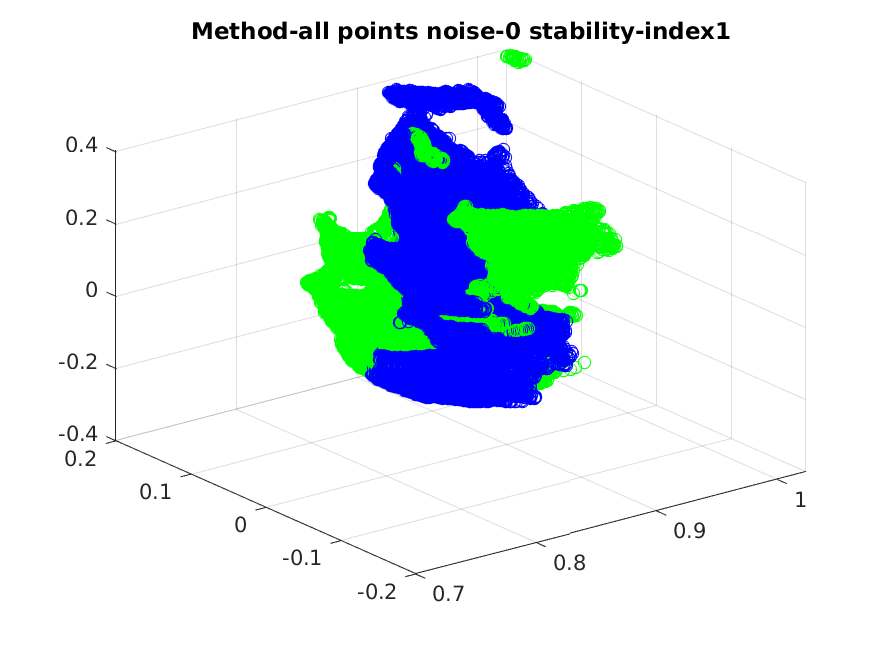
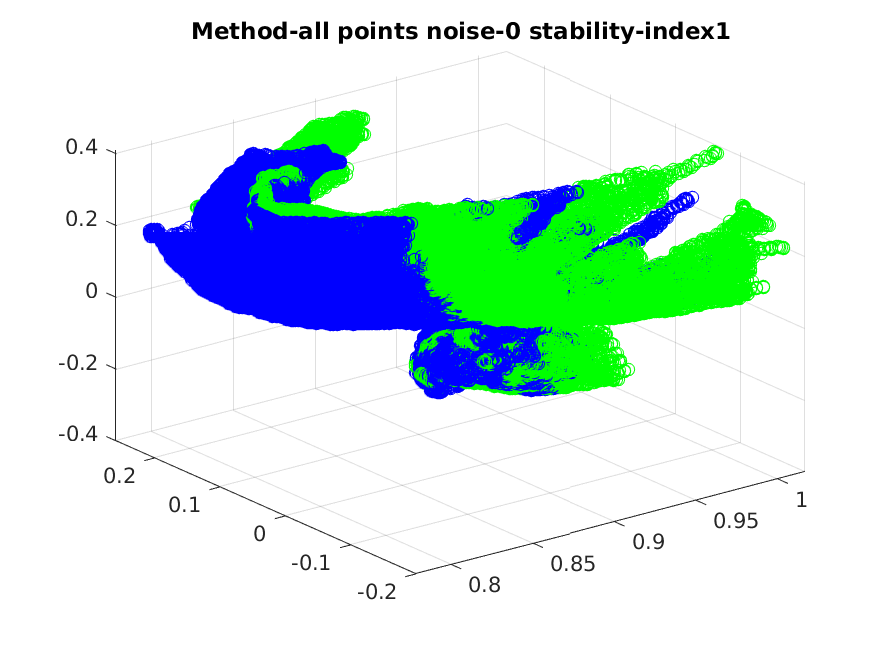
new results run for different methods

diff --git a/Assignment1/main_icp.m b/Assignment1/main_icp.m
@@ -30,9 +30,9 @@ sample_percentage = 0.4;
 
 % lists to loop through for experiments
 noise_levels = [0];%, 1, 2]; % tolerance to noise is about convergence of the algorithm with input data with noise. You can imagine data is captured by a sensor. In the ideal case you will obtain exact point cloud, however sensor is not precise, therefore there will be noise in measurement. Therefore we ask you to evaluate how ICP is robust against those kind of issuses.
-methods = ["uniform_subsamp"];%, "random_iterative_subsamp", "informed_iterative_subsamp", "all_points"]; 
-stability_R = [eye(3); [1,0,0;0,0.7,-0.7;0,0.7,0.7]; [0.7,0,0.7;0,1,0;-0.7,0,0.7]; [0.7,-0.7,0;0.7,0.7,0;0,0,1]; [1,0,0;0,0,-1;0,1,0]; [0,0,1;0,1,0;-1,0,0]; [0,-1,0;1,0,0;0,0,1]; [1,0,0;0,-1,0;0,0,-1]; [-1,0,0;0,1,0;0,0,-1]; [-1,0,0;0,-1,0;0,0,1]]; %rotate along x,y,z, 45, 90, 180 degrees
-stability_t = [zeros(3,1); ones(3,1); [1;0;0]; [0;1;0]; [0;0;1]];
+methods = ["uniform_subsamp", "random_iterative_subsamp", "informed_iterative_subsamp", "all_points"]; 
+stability_R = [eye(3)];%; [1,0,0;0,0.7,-0.7;0,0.7,0.7]; [0.7,0,0.7;0,1,0;-0.7,0,0.7]; [0.7,-0.7,0;0.7,0.7,0;0,0,1]; [1,0,0;0,0,-1;0,1,0]; [0,0,1;0,1,0;-1,0,0]; [0,-1,0;1,0,0;0,0,1]; [1,0,0;0,-1,0;0,0,-1]; [-1,0,0;0,1,0;0,0,-1]; [-1,0,0;0,-1,0;0,0,1]]; %rotate along x,y,z, 45, 90, 180 degrees
+stability_t = [zeros(3,1)];%; ones(3,1); [1;0;0]; [0;1;0]; [0;0;1]];
 
 % output collecter
 data = [];

diff --git a/Assignment1/main_merging_scenes.m b/Assignment1/main_merging_scenes.m
@@ -17,7 +17,7 @@ f2_normals = frame2.normals;
 %Parameters
 method = "uniform_subsamp";
 epsilon = 0.00025;
-sample_percentage = 0.1;
+sample_percentage = 0.5;
 s_rate = 1;
 N = 100; %Total number of images
 
